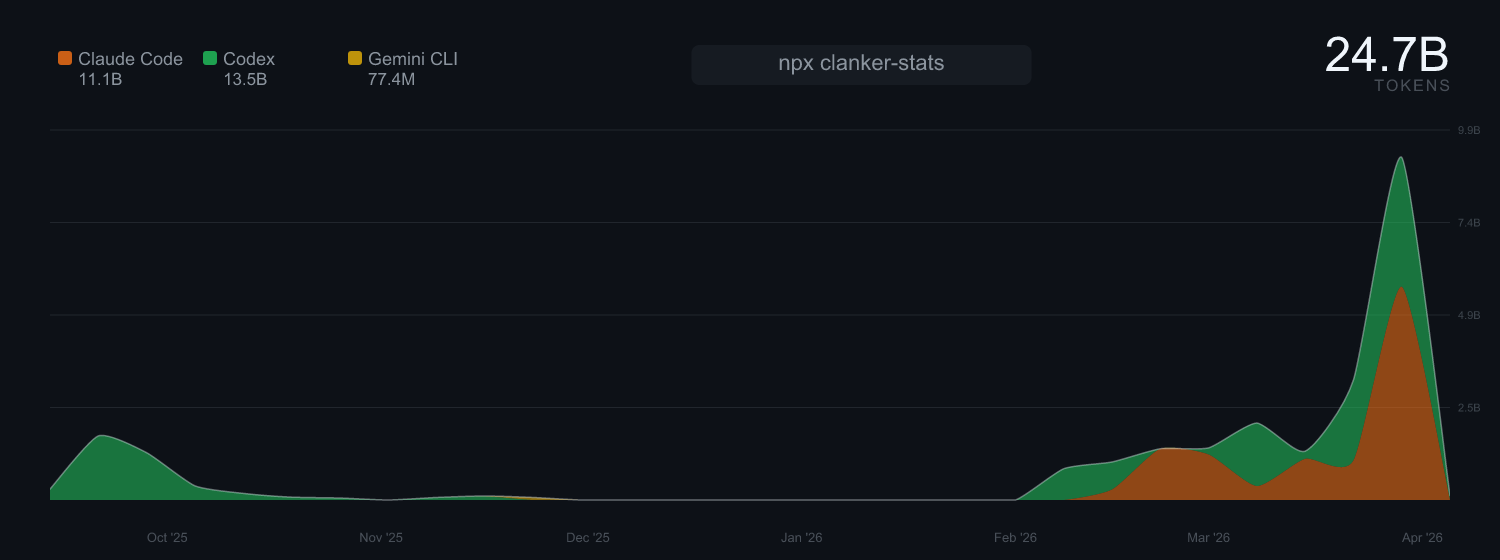
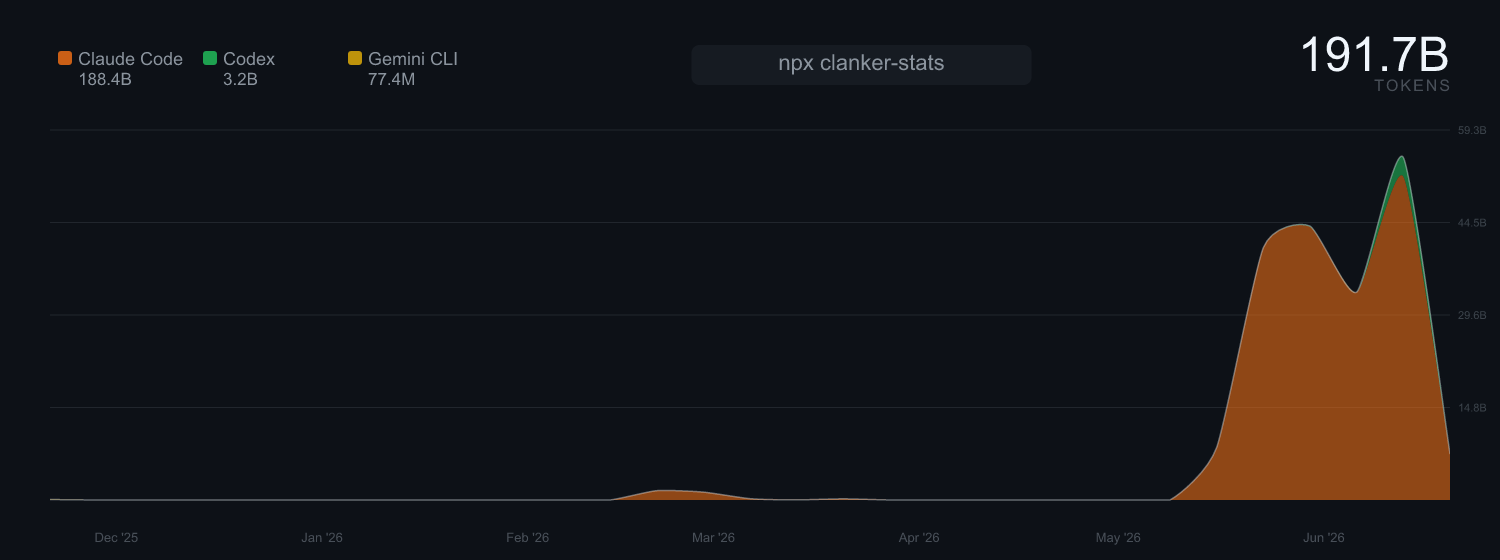
ci(release): ephemeral on-demand RunPod runner (serverless releases, the manna pattern)
release-on-runpod.sh {up|down|release}: spin a CPU pod from the runpod-ubuntu
template, install an --ephemeral GitHub Actions runner (one job then self-removes),
and tear the pod down — scale-to-zero, no idle cost. Witnessed live by
ephemeral-runner-cycle.sh: pod spins, ephemeral runner comes ONLINE, teardown
leaves zero pods (gathered → online → released, nothing hoarded). Plus
runner-online + research-prod (deploy) gates. Token piped via stdin, never in args.

diff --git a/AIKO.md b/AIKO.md
@@ -354,4 +354,5 @@ Reach for these by name when the trigger phrase matches what the user asked for.
 | `/falsifier-gated-build` | verify this build honestly; is this regression mine or pre-existing; did I actually fix it or is it a painted lamp |
 | `/unbrowse-capability-bench` | Re-run the unbrowse four-axis capability benchmark (action-retrieval coverage over Reddit/hardest-scrape/automation tiers, execution with/without auth, security leak-scan) plus the real cloned exa-labs/benchmarks run and the self-improvement A/B, then ALWAYS write a dated markdown report analyzing how each axis performed, what works, what regressed, and why. |
 | `/unbrowse-corpus-bench` | Harvest a LIVE corpus of hard-to-scrape sites (mined from r/webscraping + curated anti-bot / SPA / GraphQL targets + commonly-used agentic-task sites), run the five unbrowse capability axes against it on the npm-installed shipped binary via the REAL resolve→execute contract, and write a dated per-site markdown report. |
+| `/prod-deploy-verify` | test our fixes on prod; verify the release; did the deploy work |
 <!-- /skills:pinned -->

diff --git a/CLAUDE.md b/CLAUDE.md
@@ -137,4 +137,5 @@ Reach for these by name when the trigger phrase matches what the user asked for.
 |---|---|
 | `/unbrowse-capability-bench` | Re-run the unbrowse four-axis capability benchmark (action-retrieval coverage over Reddit/hardest-scrape/automation tiers, execution with/without auth, security leak-scan) plus the real cloned exa-labs/benchmarks run and the self-improvement A/B, then ALWAYS write a dated markdown report analyzing how each axis performed, what works, what regressed, and why. |
 | `/unbrowse-corpus-bench` | Harvest a LIVE corpus of hard-to-scrape sites (mined from r/webscraping + curated anti-bot / SPA / GraphQL targets + commonly-used agentic-task sites), run the five unbrowse capability axes against it on the npm-installed shipped binary via the REAL resolve→execute contract, and write a dated per-site markdown report. |
+| `/prod-deploy-verify` | test our fixes on prod; verify the release; did the deploy work |
 <!-- /skills:pinned -->

diff --git a/paper/CLAUDE.md b/paper/CLAUDE.md
@@ -203,4 +203,5 @@ Reach for these by name when the trigger phrase matches what the user asked for.
 |---|---|
 | `/unbrowse-capability-bench` | Re-run the unbrowse four-axis capability benchmark (action-retrieval coverage over Reddit/hardest-scrape/automation tiers, execution with/without auth, security leak-scan) plus the real cloned exa-labs/benchmarks run and the self-improvement A/B, then ALWAYS write a dated markdown report analyzing how each axis performed, what works, what regressed, and why. |
 | `/unbrowse-corpus-bench` | Harvest a LIVE corpus of hard-to-scrape sites (mined from r/webscraping + curated anti-bot / SPA / GraphQL targets + commonly-used agentic-task sites), run the five unbrowse capability axes against it on the npm-installed shipped binary via the REAL resolve→execute contract, and write a dated per-site markdown report. |
+| `/prod-deploy-verify` | test our fixes on prod; verify the release; did the deploy work |
 <!-- /skills:pinned -->
